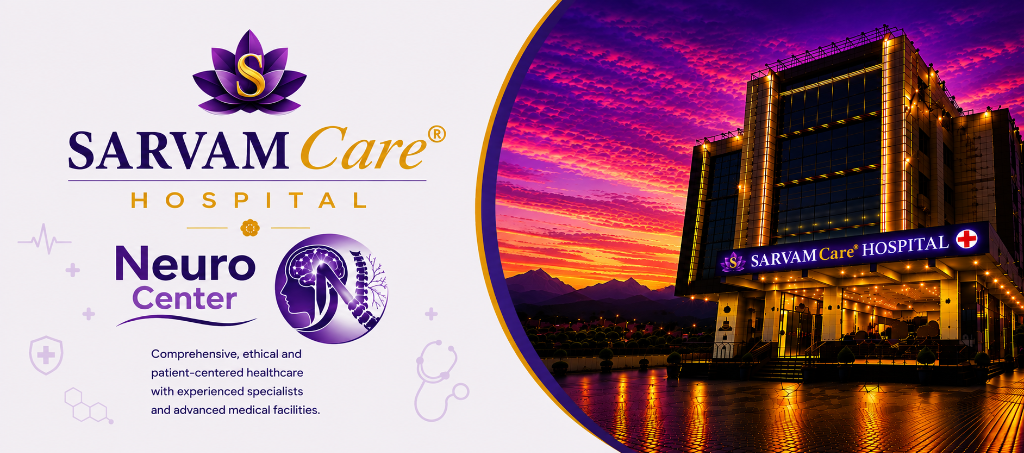
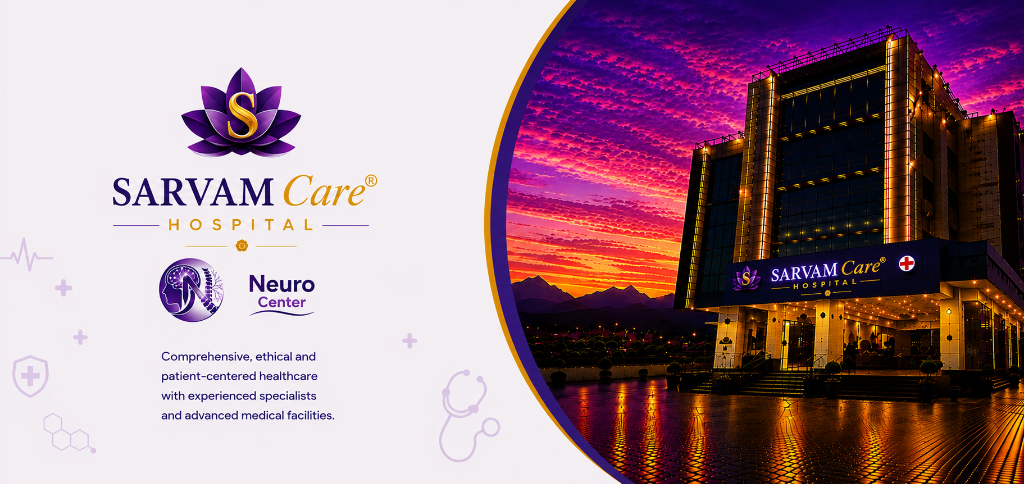
Configure refined 16:7 widescreen cover hero backgrounds for desktop and mobile viewports

diff --git a/src/sections/Hero.tsx b/src/sections/Hero.tsx
@@ -37,7 +37,7 @@ export const Hero: React.FC = () => {
 
         {/* Desktop screens (1024px and above) */}
         <div 
-          className="absolute inset-x-0 top-0 bottom-[-60px] bg-cover bg-no-repeat lg:bg-[size:90%] lg:bg-center lg:bg-no-repeat lg:bg-white hidden lg:block opacity-100 transition-opacity duration-300"
+          className="absolute inset-x-0 top-0 bottom-[-60px] bg-cover bg-no-repeat lg:bg-center hidden lg:block opacity-100 transition-opacity duration-300"
           style={{ backgroundImage: "url('/background.png')" }}
         />
 
